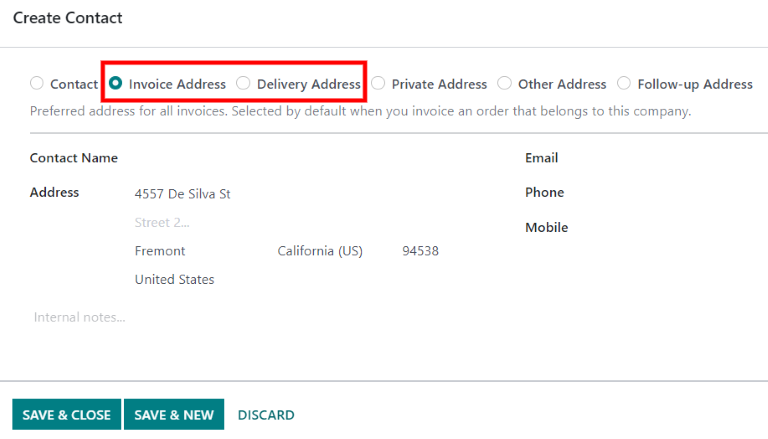
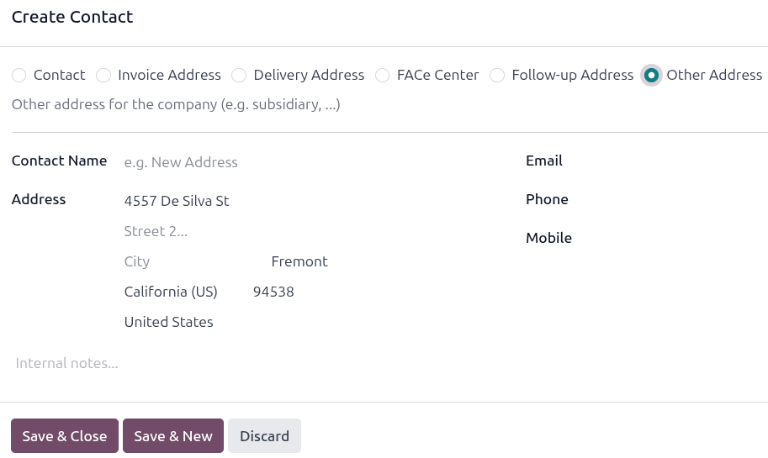
[IMP] Sales: Different addresses in contacts/quotations
closes odoo/documentation#15863

X-original-commit: eeab0f8052185c9cc2aa4ade705114f4f5604e2e

diff --git a/content/applications/sales/sales/sales_quotations/different_addresses.rst b/content/applications/sales/sales/sales_quotations/different_addresses.rst
@@ -3,18 +3,17 @@ Deliveries and invoices to different addresses
 ==============================================
 
 People and businesses often use separate addresses for billing (invoicing) and shipping (delivery)
-purposes. With the Odoo *Sales* app, contacts can have different specified addresses for delivery
+purposes. With the Odoo **Sales** app, contacts can have different specified addresses for delivery
 and invoicing.
 
 Settings
 ========
 
-To properly utilize multiple addresses in Odoo, go to :menuselection:`Accounting app -->
+To properly utilize multiple addresses in Odoo, go to the :menuselection:`Accounting app -->
 Configuration --> Settings`, and scroll down to the :guilabel:`Customer Invoices` heading. Then,
-tick the checkbox.
+tick the :guilabel:`Customer Addresses` checkbox.
 
 .. image:: different_addresses/customer-addresses-setting.png
-   :align: center
    :alt: Activate the Customer Addresses setting.
 
 .. _sales/send_quotations/contact-form-config:
@@ -22,59 +21,46 @@ tick the checkbox.
 Contact form configuration
 ==========================
 
-To add multiple addresses to a contact, go to :menuselection:`Sales app --> Orders --> Customers`,
-and clear any default filters from the search bar. Then, click on the desired customer to open their
-contact form.
+To add multiple addresses to a contact, go to the :menuselection:`Sales app --> Orders -->
+Customers`, and clear any default filters from the search bar. Then, click on the desired customer
+to open their contact form.
 
 .. tip::
-   Contact forms can be accessed in the *Contacts* application, as well.
+   Contact forms can be accessed in the **Contacts** application, as well.
 
-From the contact form, click :guilabel:`Edit`, and then select :guilabel:`Add`, which is located
-under the :guilabel:`Contacts & Addresses` tab. Doing so reveals a :guilabel:`Create Contact` pop-up
-form, in which additional addresses can be configured.
+From the contact form, click the :guilabel:`Add` button, which is located under the
+:guilabel:`Contacts & Addresses` tab. This brings up the :guilabel:`Create Contact` pop-up form, in
+which additional addresses can be configured.
 
 .. image:: different_addresses/contact-form-add-address.png
-   :align: center
    :alt: Add a contact/address to the contact form.
 
-On the :guilabel:`Create Contact` pop-up form, start by clicking the default :guilabel:`Other
-Address` field to reveal a drop-down menu of address-related options.
+On the :guilabel:`Create Contact` pop-up form, select any of the following options:
 
-Select any of the following options:
-
-- :guilabel:`Contact`: adds another contact to the existing contact form.
-- :guilabel:`Invoice Address`: adds a specific invoice address to the existing contact form.
-- :guilabel:`Delivery Address`: adds a specific delivery address to the existing contact form.
-- :guilabel:`Other Address`: adds an alternate address to the existing contact form.
-- :guilabel:`Private Address`: adds a private address to the existing contact form.
-
-Once an option is selected, proceed to enter the corresponding contact information that should be
-used for the specified address type.
+- :guilabel:`Contact`: Adds another contact, such as an employee at a company, to the contact form.
+- :guilabel:`Invoice Address`: Adds a default invoice address to the contact form.
+- :guilabel:`Delivery Address`: Adds a default delivery address to the contact form.
+- :guilabel:`Follow-up Address`: Adds a default contact address that is used for follow-up
+  communications about billing and other issues to the contact form.
+- :guilabel:`Other Address`: Adds an alternate address to the contact form.
 
 .. image:: different_addresses/create-contact-window.png
-   :align: center
    :alt: Create a new contact/address on a contact form.
 
-Then, click :guilabel:`Save & Close` to save the address and close the :guilabel:`Create Contact`
-window. Or, click :guilabel:`Save & New` to save the address and immediately input another one.
+Once the corresponding information has been entered, click :guilabel:`Save & Close` to save the
+address and close the :guilabel:`Create Contact` window. To save the address and input additional
+contact information, click :guilabel:`Save & New` instead.
 
-Address added to quotations
-===========================
+Quotations and autopopulated addresses
+======================================
 
-When a customer is added to a quotation, the :guilabel:`Invoice Address` and :guilabel:`Delivery
-Address` fields autopopulate with the corresponding addresses specified on the customer's contact
-form.
+When a customer with invoice and delivery addresses in their contact form is added to a quotation,
+the :guilabel:`Invoice Address` and :guilabel:`Delivery Address` fields autopopulate with the
+corresponding addresses.
 
 .. image:: different_addresses/quotation-address-autopopulate.png
-   :align: center
    :alt: Invoice and Delivery Addresses autopopulate on a quotation.
 
 The :guilabel:`Invoice Address` and :guilabel:`Delivery Address` can also be edited directly from
-the quotation by clicking the :guilabel:`Edit` button, and then clicking the :guilabel:`➡ (right
-arrow)` internal link buttons next to each address line.
-
-These addresses can be updated at any time to ensure accurate invoicing and delivery.
-
-.. tip::
-   If any changes are made on a form in Odoo, include *Contacts* forms, remember to click
-   :guilabel:`Save` to save the changes to the database.
+the quotation by mousing over the address and clicking the :icon:`oi-arrow-right`
+:guilabel:`(Internal Link)` icon.
